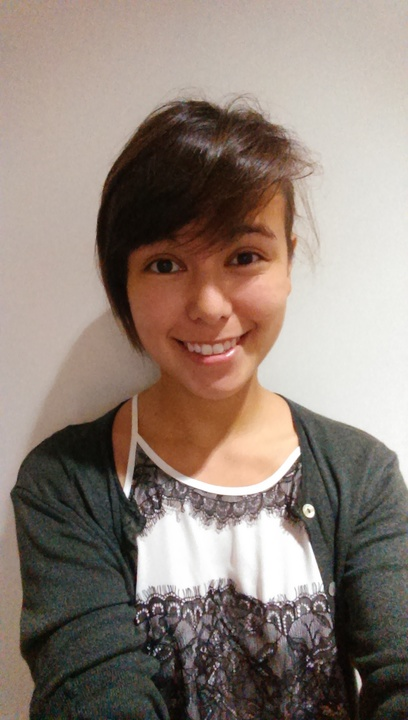
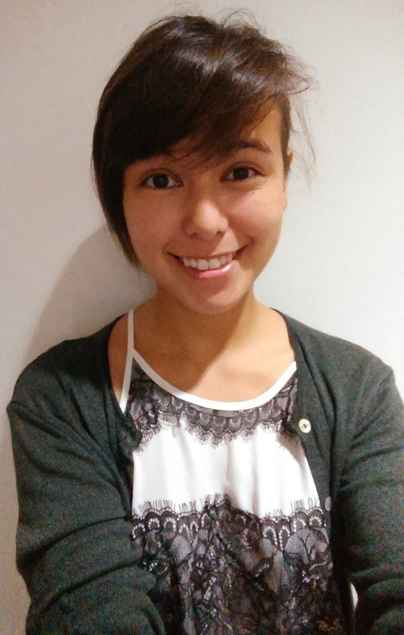
Updated team page and compressed some pictures

diff --git a/public/team.html b/public/team.html
@@ -205,7 +205,7 @@
         <div class="col-md-6 col-sm-6 col-xs-6">
           <h2> Position: <b>Front-End Developer</b></h2>
           <br />
-          <img class="img-circle" src="/images/No_image_available.svg" height="200" width="200"/>
+          <img class="img-circle" src="/images/stephen.jpg" height="200" width="200"/>
         </div>
         <div class="col-md-3 col-sm-3 col-xs-3">
           <h2>Name: </h2>
@@ -216,9 +216,9 @@
           <h2>Info:</h2>
           <br />
           <ul>
-            <li> X year student</li>
+            <li> 4th year student</li>
             <li> CS major</li>
-            <li> Fun Fact</li>
+            <li> Plays badminron</li>
           </ul>
         </div>
       </div>
@@ -274,6 +274,32 @@
       </div>
     </div>
     <hr />
+
+    <div class="container">
+      <div class="row">
+        <div class="col-md-6 col-sm-6 col-xs-6">
+          <h2> Position: <b>Tester</b></h2>
+          <br />
+          <img class="img-circle" src="/images/chuan.jpg" height="200" width="200"/>
+        </div>
+        <div class="col-md-3 col-sm-3 col-xs-3">
+          <h2>Name: </h2>
+          <br />
+          <h3><em>Chuan He</em></h3>
+        </div>
+        <div class="col-md-3 col-sm-3 col-xs-3">
+          <h2>Info:</h2>
+          <br />
+          <ul>
+            <li> 4th year student</li>
+            <li> CS major</li>
+            <li> Did not formally graduate from Elementary and High School</li>
+          </ul>
+        </div>
+      </div>
+    </div>
+    <hr />
+
 
     <div class="container">
       <div class="row">

diff --git a/public/css/style.css b/public/css/style.css
@@ -7,12 +7,14 @@
 
   #about-pic{
     background-image: url(/images/calm-scenary.jpeg);
+    background-size: cover;
+    background-repeat: no-repeat;
   }
 
   #home{
     background-image: url(/images/UCSD.jpg);
     background-size: cover;
-
+    background-repeat: no-repeat;
     min-height: 700px;
   }
 
